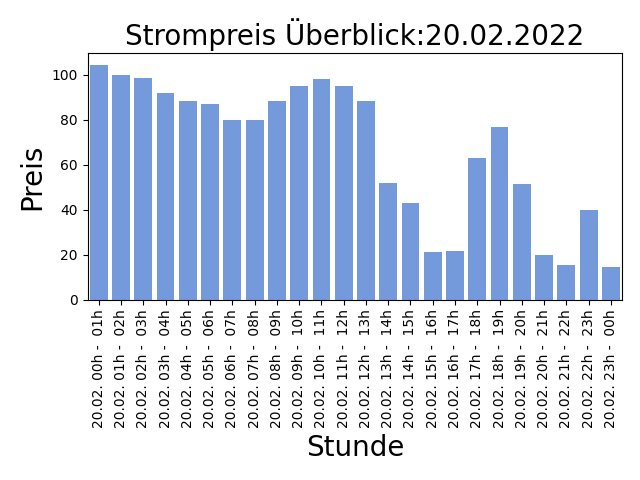
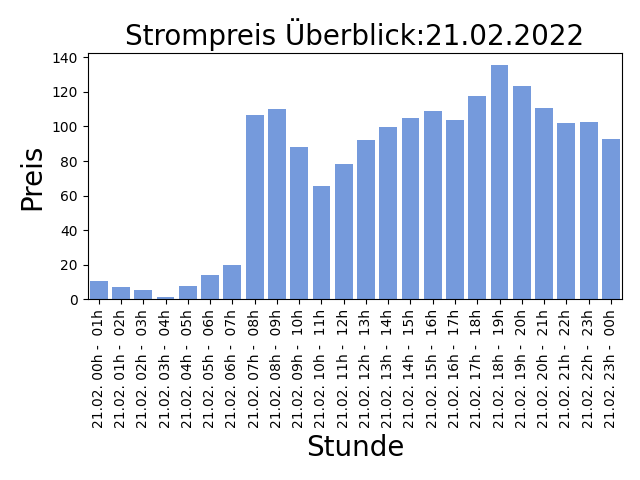
AUTOMATIC UPDATE PRICE LIST: 2022-02-20-14:30:05

diff --git a/README.md b/README.md
@@ -1,5 +1,5 @@
 
-## Strompreise für den 20.02.2022
+## Strompreise für den 21.02.2022
 
 Niedrige Preise deuten auf viel Sonnen und Windenergieerzeugung hin, ein hoher Anteil an erneuerbaren Energien bedeuted weniger CO2 Verbrauch!
 
@@ -7,31 +7,31 @@ Niedrige Preise deuten auf viel Sonnen und Windenergieerzeugung hin, ein hoher A
 
 | Stunde | Preis in Eur/MWh |
 |---|---|
-| 20.02. 00h -  01h | 104.38 | 
-| 20.02. 01h -  02h | 99.9 | 
-| 20.02. 02h -  03h | 98.71 | 
-| 20.02. 03h -  04h | 92.01 | 
-| 20.02. 04h -  05h | 88.53 | 
-| 20.02. 05h -  06h | 87.17 | 
-| 20.02. 06h -  07h | 80.0 | 
-| 20.02. 07h -  08h | 80.08 | 
-| 20.02. 08h -  09h | 88.28 | 
-| 20.02. 09h -  10h | 95.06 | 
-| 20.02. 10h -  11h | 98.22 | 
-| 20.02. 11h -  12h | 95.09 | 
-| 20.02. 12h -  13h | 88.15 | 
-| 20.02. 13h -  14h | 51.8 | 
-| 20.02. 14h -  15h | 43.11 | 
-| 20.02. 15h -  16h | 21.24 | 
-| 20.02. 16h -  17h | 21.56 | 
-| 20.02. 17h -  18h | 63.16 | 
-| 20.02. 18h -  19h | 76.93 | 
-| 20.02. 19h -  20h | 51.28 | 
-| 20.02. 20h -  21h | 20.02 | 
-| 20.02. 21h -  22h | 15.39 | 
-| 20.02. 22h -  23h | 40.06 | 
-| **20.02. 23h -  00h** | **14.62** | 
+| 21.02. 00h -  01h | 10.73 | 
+| 21.02. 01h -  02h | 7.48 | 
+| 21.02. 02h -  03h | 5.71 | 
+| **21.02. 03h -  04h** | **1.43** | 
+| 21.02. 04h -  05h | 7.6 | 
+| 21.02. 05h -  06h | 14.37 | 
+| 21.02. 06h -  07h | 19.75 | 
+| 21.02. 07h -  08h | 106.69 | 
+| 21.02. 08h -  09h | 110.06 | 
+| 21.02. 09h -  10h | 88.28 | 
+| 21.02. 10h -  11h | 65.51 | 
+| 21.02. 11h -  12h | 78.22 | 
+| 21.02. 12h -  13h | 92.02 | 
+| 21.02. 13h -  14h | 99.9 | 
+| 21.02. 14h -  15h | 104.92 | 
+| 21.02. 15h -  16h | 108.77 | 
+| 21.02. 16h -  17h | 103.46 | 
+| 21.02. 17h -  18h | 117.78 | 
+| 21.02. 18h -  19h | 135.59 | 
+| 21.02. 19h -  20h | 123.63 | 
+| 21.02. 20h -  21h | 110.71 | 
+| 21.02. 21h -  22h | 102.0 | 
+| 21.02. 22h -  23h | 102.83 | 
+| 21.02. 23h -  00h | 92.55 | 
 
 Preise der EPEX Spot ® Strombörse (neue Preise werden täglich um 14:00 veröffentlicht für den kompletten nächsten Tag).
 
-letzte Aktualisierung:19.02.2022 14:30
+letzte Aktualisierung:20.02.2022 14:30
